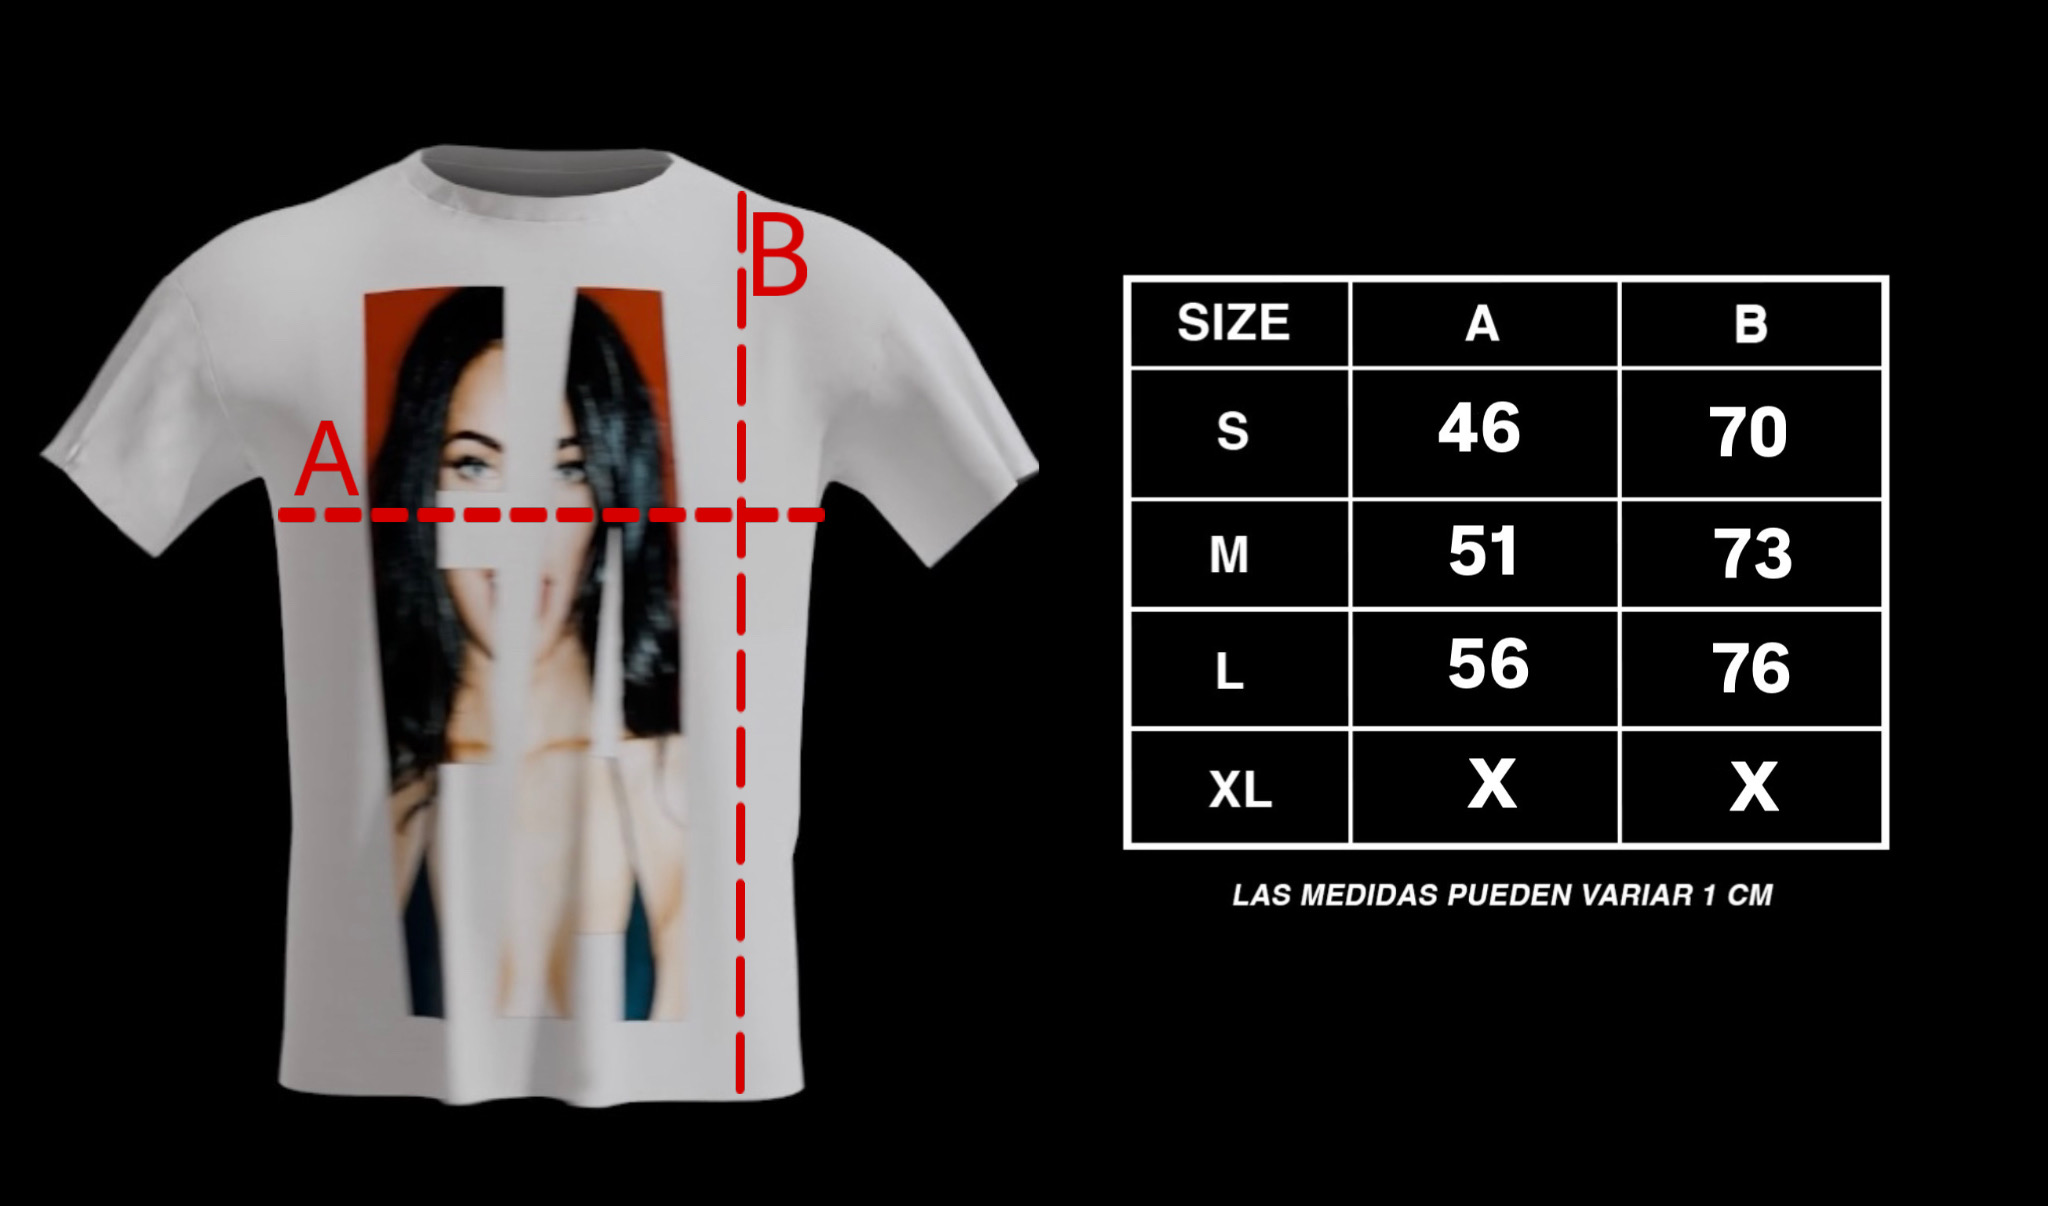
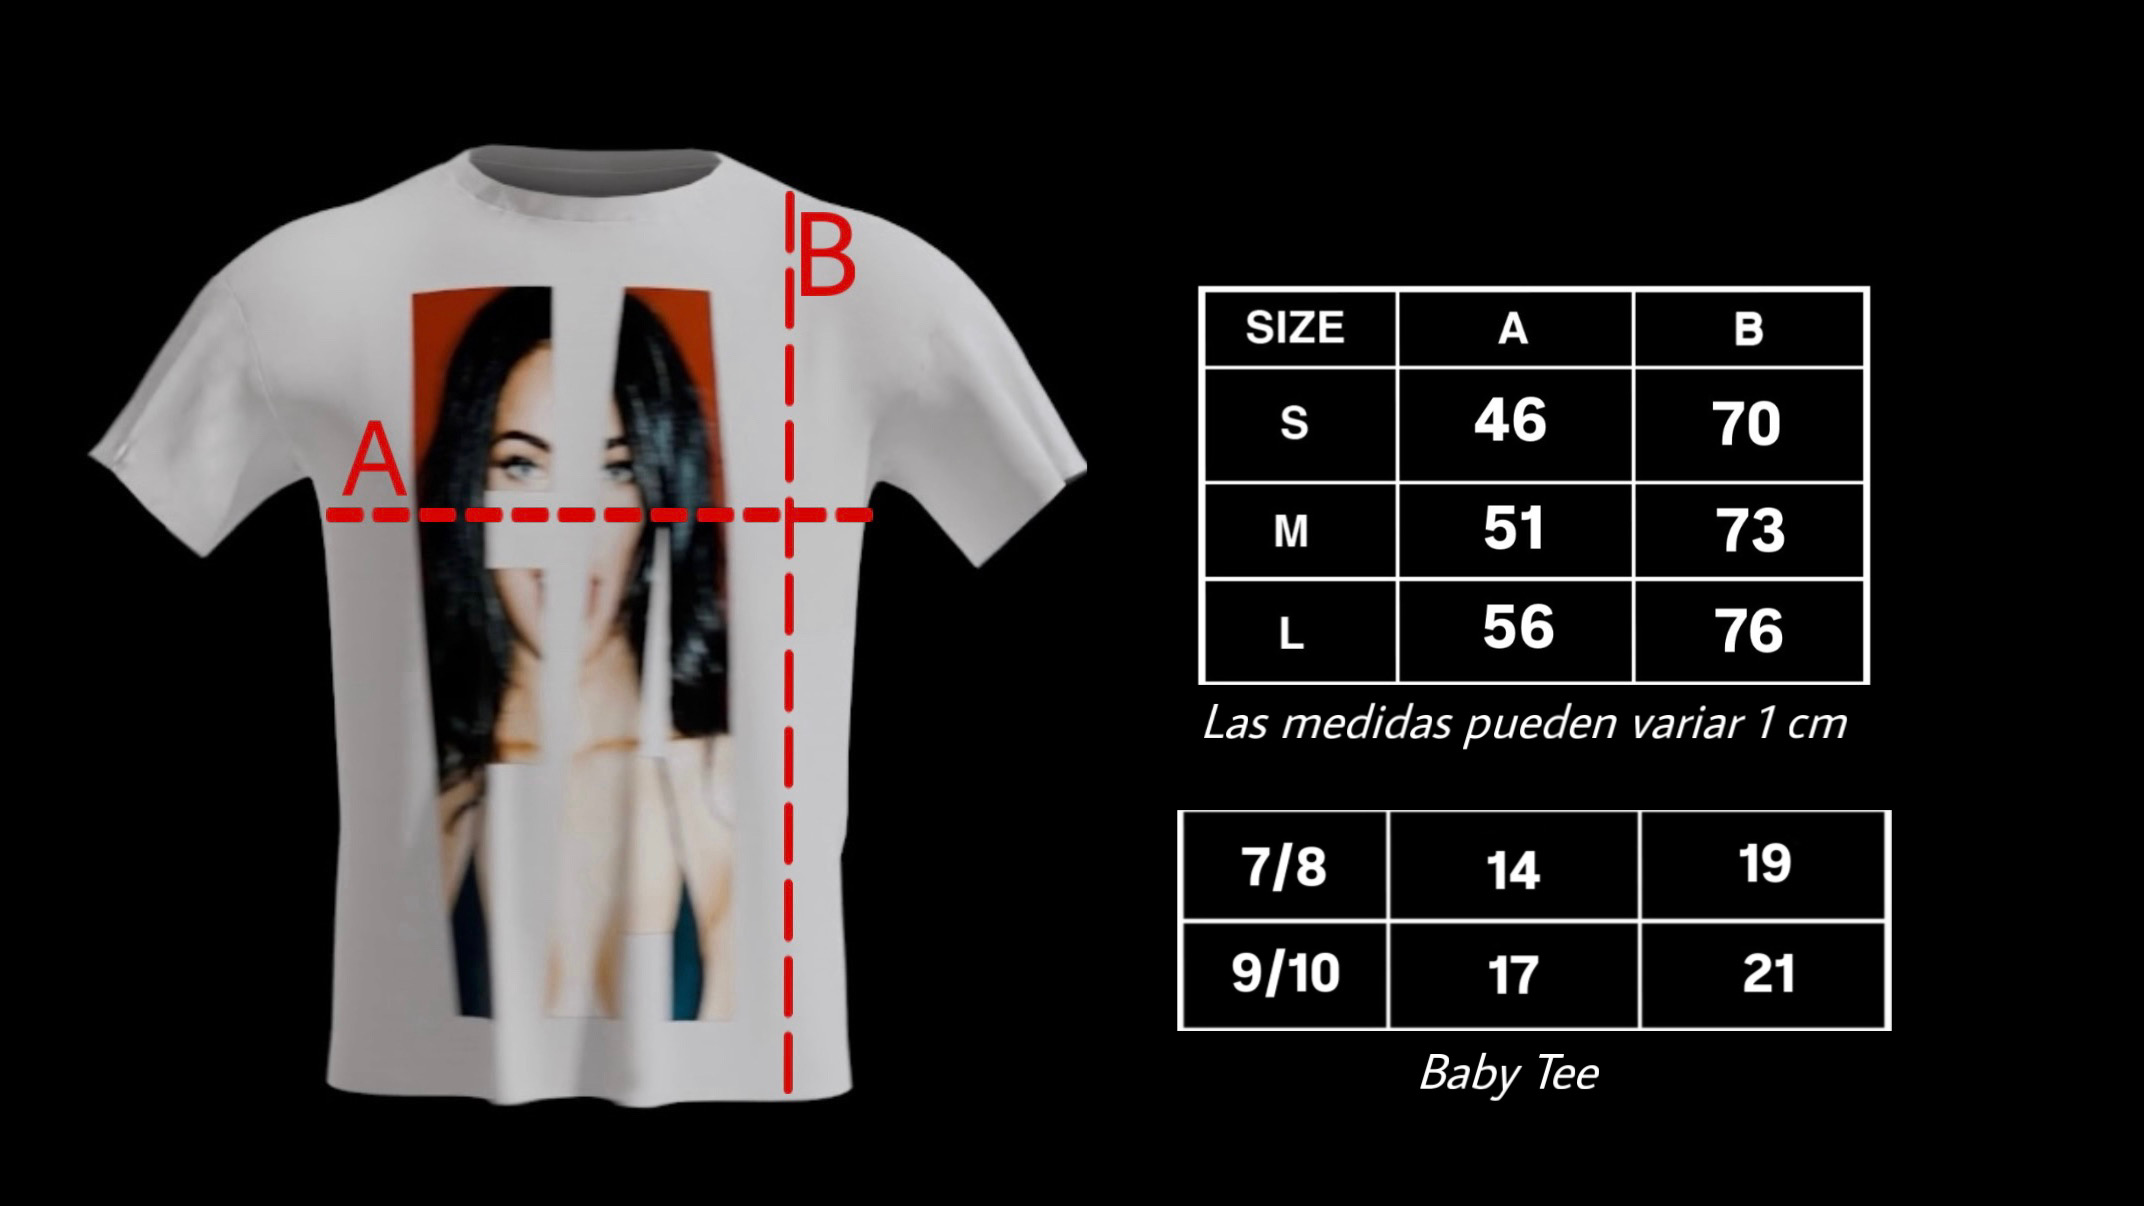
Actualizacion talla baby tee

diff --git a/index.html b/index.html
@@ -9,13 +9,13 @@
         src="https://cdn.jsdelivr.net/npm/@emailjs/browser@4/dist/email.min.js">
 </script>
   <!--SCRIPT.JS-->
-  <script src="script2.js?v=2.2.8" defer></script>
+  <script src="script2.js?v=2.2.9" defer></script>
   <!--SCRIPT SOUNDCLOUD-->
   <script src="https://w.soundcloud.com/player/api.js"></script>
   <!--SCRIPT YOUTUBE-->
   <script src="https://www.youtube.com/iframe_api"></script>
   <!--STYLES.CSS-->
-  <link rel="stylesheet" href="styles.css?v=2.2.8">
+  <link rel="stylesheet" href="styles.css?v=2.2.9">
   <link rel="icon" type="image/png" href="imagenes/mercimetalic.png">
 </head>
 <body >
@@ -216,55 +216,57 @@
 
           <!--------------------- Polera 3 ------------------->
               <div class="merch-item">
-                  <h3>FA BLACK TEE</h3>
-                  <div class="merch-image-wrapper">
-                  <img 
-                      class="merch-gif" 
-                      src="imagenes/fa_negra.gif"
-                      alt="FA BLACK TEE"
-                      onclick="openMerchDetail({ 
-                          title: 'FA BLACK TEE', 
-                          price: '$23.990 CLP', 
-                          main: 'fa_negra.gif', 
-                          thumbnails: ['fa_negra.gif', 'fa_negra_frente.png', 'fa_negra_espalda.png', 'fa_negra_tabla.jpg'],
-                          hasSize: true })">
-                          <!-- AGREGAR SOLD OUT -->
-                          <span class="sold-out-badge"></span>
-                          </div>
-                  <h4>$23.990 CLP</h4>
-                  <button onclick="openMerchDetail({ 
+              <h3>FA BLACK TEE</h3>
+              <div class="merch-image-wrapper">
+              <img 
+                  class="merch-gif" 
+                  src="imagenes/fa_negra.gif"
+                  alt="FA BLACK TEE"
+                  onclick="openMerchDetail({ 
                       title: 'FA BLACK TEE', 
                       price: '$23.990 CLP', 
                       main: 'fa_negra.gif', 
-                      thumbnails: ['fa_negra.gif', 'fa_negra_frente.png', 'fa_negra_espalda.png', 'fa_negra_tabla.jpg'], 
-                      hasSize: true })">BUY</button>
+                      thumbnails: ['fa_negra.gif', 'fa_negra_frente.png', 'fa_negra_espalda.png', 'fa_negra_tabla.jpg'],
+                      hasSize: true,
+                      sizes: ['S', 'M', 'L', '7/8', '9/10'] })">
+                  <span class="sold-out-badge"></span>
               </div>
+              <h4>$23.990 CLP</h4>
+              <button onclick="openMerchDetail({ 
+                  title: 'FA BLACK TEE', 
+                  price: '$23.990 CLP', 
+                  main: 'fa_negra.gif', 
+                  thumbnails: ['fa_negra.gif', 'fa_negra_frente.png', 'fa_negra_espalda.png', 'fa_negra_tabla.jpg'], 
+                  hasSize: true,
+                  sizes: ['S', 'M', 'L', '7/8', '9/10'] })">BUY</button>
+          </div>
 
               <!------------------------- Polera 4 ---------------------->
               <div class="merch-item">
-                  <h3>FA WHITE TEE</h3>
-                  <div class="merch-image-wrapper">
-                  <img 
-                      class="merch-gif" 
-                      src="imagenes/fa_blanca.gif"
-                      alt="FA WHITE TEE"
-                      onclick="openMerchDetail({ 
-                          title: 'FA WHITE TEE', 
-                          price: '$23.990 CLP', 
-                          main: 'fa_blanca.gif', 
-                          thumbnails: ['fa_blanca.gif', 'fa_blanca_frente.png', 'fa_blanca_espalda.png', 'fa_blanca_tabla.jpg'],
-                          hasSize: true })">
-                          <!-- AGREGAR SOLD OUT -->
-                          <span class="sold-out-badge"></span>
-                          </div>
-                  <h4>$23.990 CLP</h4>
-                  <button onclick="openMerchDetail({ 
+              <h3>FA WHITE TEE</h3>
+              <div class="merch-image-wrapper">
+              <img 
+                  class="merch-gif" 
+                  src="imagenes/fa_blanca.gif"
+                  alt="FA WHITE TEE"
+                  onclick="openMerchDetail({ 
                       title: 'FA WHITE TEE', 
                       price: '$23.990 CLP', 
                       main: 'fa_blanca.gif', 
-                      thumbnails: ['fa_blanca.gif', 'fa_blanca_frente.png', 'fa_blanca_espalda.png', 'fa_blanca_tabla.jpg'], 
-                      hasSize: true })">BUY</button>
+                      thumbnails: ['fa_blanca.gif', 'fa_blanca_frente.png', 'fa_blanca_espalda.png', 'fa_blanca_tabla.jpg'],
+                      hasSize: true,
+                      sizes: ['S', 'M', 'L', '7/8', '9/10'] })">
+                  <span class="sold-out-badge"></span>
               </div>
+              <h4>$23.990 CLP</h4>
+              <button onclick="openMerchDetail({ 
+                  title: 'FA WHITE TEE', 
+                  price: '$23.990 CLP', 
+                  main: 'fa_blanca.gif', 
+                  thumbnails: ['fa_blanca.gif', 'fa_blanca_frente.png', 'fa_blanca_espalda.png', 'fa_blanca_tabla.jpg'], 
+                  hasSize: true,
+                  sizes: ['S', 'M', 'L', '7/8', '9/10'] })">BUY</button>
+          </div>
 
               <!--------------------------- ITEM "CD" ---------------------->
               <div class="merch-item">
@@ -293,7 +295,7 @@
               </div>
           </div>
         
-        <!-- Vista Detalles del Producto -->
+        <!--------------------------------- Vista Detalles del Producto ------------------------------>
         <div class="merch-detail-container" id="merchDetail" style="display:none;">
             <img src="imagenes/back.png" loading="eager" alt="Back Icon" class="back-icon" onclick="handleRedButton('merchDetail')" />
             <div class="merch-main-view">

diff --git a/script2.js b/script2.js
@@ -716,7 +716,22 @@ function openMerchDetail(product) {
   const merchWindow = document.getElementById("merch");
 
   const sizeSelector = document.querySelector(".size-selector");
+  const sizeSelect = document.getElementById("size");
+  
+  // Mostrar u ocultar selector de tallas
   sizeSelector.style.display = product.hasSize ? "block" : "none";
+  
+  // Llenar opciones de talla según el producto
+  if (product.hasSize) {
+    sizeSelect.innerHTML = "";
+    const sizes = product.sizes || ["S", "M", "L", "XL"]; // Tallas por defecto
+    sizes.forEach(size => {
+      const option = document.createElement("option");
+      option.value = size;
+      option.textContent = size;
+      sizeSelect.appendChild(option);
+    });
+  }
 
   // Limpiar contenedor principal
   mainImageContainer.innerHTML = "";
@@ -747,7 +762,7 @@ function openMerchDetail(product) {
   if (window.innerWidth <= 768) {
     const windowContent = merchWindow.querySelector('.mac-window-content');
     if (windowContent) {
-      windowContent.scrollTop = 0; // AÑADE ESTO: Resetear scroll al inicio
+      windowContent.scrollTop = 0;
       windowContent.style.overflow = "hidden";
     }
     merchDetail.style.overflow = "hidden";
@@ -809,30 +824,36 @@ function getShopifyProductID(title, size) {
       S: "46381412647165",
       M: "46381412679933",
       L: "46381412712701",
-      XL: "46381412745469"},
+      XL: "46381412745469"
+    },
 
     "FREE LOHAN BLACK TEE": {
       S: "46381471990013",
       M: "46381472022781",
       L: "46381472055549",
-      XL: "46381472088317"},
+      XL: "46381472088317"
+    },
 
     "FA WHITE TEE": {
       S: "46709795487997",
       M: "46709795520765",
       L: "46709795553533",
-      XL: "46709795586301"},
+      "7/8": "46721852932349",  
+      "9/10": "46721852899581"  
+    },
 
     "FA BLACK TEE": {
       S: "46709797912829",
       M: "46709797945597",
       L: "46709797978365",
-      XL: "46709798011133"},
+      "7/8": "46721850802429",  
+      "9/10": "46721850835197"  
+    },
 
     "CD BBJUANKI": "46709799158013"
   };
 
-return typeof variants[title] === "object"
+  return typeof variants[title] === "object"
     ? variants[title]?.[size] || null
     : variants[title] || null;
 }
